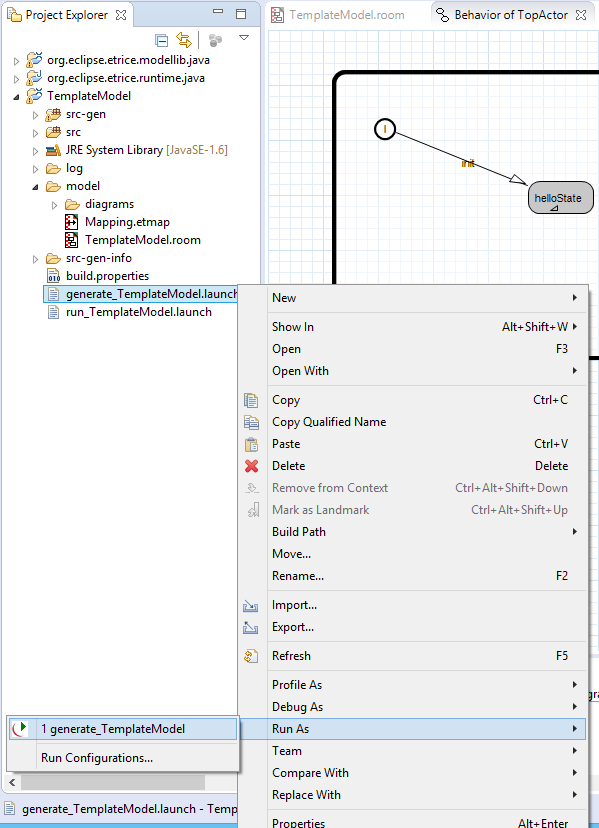
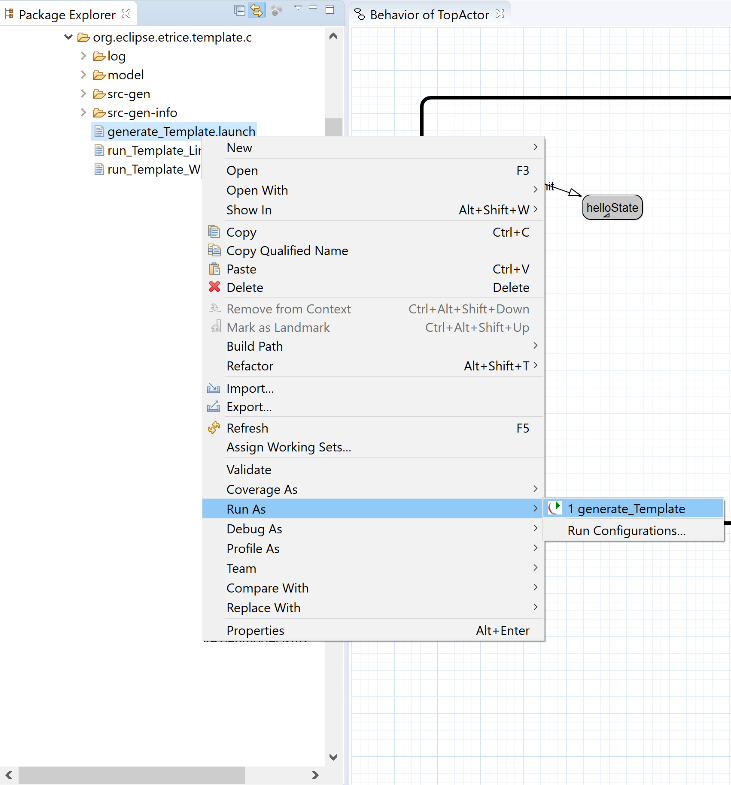
Bug 541517: improved usability of tutorials
- included MinGW install guide
- added brief explanation of actors and link to ROOM concept
- updated some screenshots
- some english language semantics corrected

diff --git a/plugins/org.eclipse.etrice.doc/online-doc/content/tutorials.md b/plugins/org.eclipse.etrice.doc/online-doc/content/tutorials.md
@@ -36,7 +36,7 @@ Additional functionality is provided as model library (Modellib):
 -   standard types
 
 Getting Started C
------------------
+-------------------
 
 In this tutorial you will have a first look at a very simple eTrice model. The goal is to learn the work flow of eTrice and to understand a few basic features of ROOM.
 
@@ -56,6 +56,41 @@ In this tutorial you will have a first look at a very simple eTrice model. The g
 	- [Windows download site](http://trace2uml.tigris.org/servlets/ProjectDocumentList?folderID=6208)
 	- [Linux package](http://apt.astade.de/)
 
+#### How to install the MinGW compiler on Windows 10
+
+1. Download the setup executable "mingw-get-setup" from [here](https://osdn.net/projects/mingw/releases/p15522)
+
+2. Run the executable file and follow the prompts given by the install wizard. 
+
+3. When you are prompted to set the installation directory, try not to install it under "Program Files" or "Desktop". Instead, it is recommended to use the default location specified by the installer, "C:/MinGW".
+
+4. In the basic setup tab, mark all packages for installation by right clicking each package and selecting "Mark for installation".
+
+5. Once all the packages are selected, click on the menu called "Installation -> Apply Changes". 
+
+6. When the confirmation window appears, select "Apply". The package download/installation process will now begin. It should take about 5-10 minutes to completely finish, so ensure that you have a reliable internet connection during this time.
+
+7. Once the installation process has completely finished, you need to set the environment variable path to include the MinGW directory. Open the windows menu with "windows key", type "Control Panel" and press Enter. 
+	- At the top right of the control panel window there should be a search box. Select it and type "Advanced system settings" and then click on the search result "View advanced system settings".
+	
+	- Click on "Environment Variables" and double click on the user variable "Path". In the new Edit environment variable window, enter a new variable under "C:/MinGW/bin" if you used the recommended install path. Otherwise change the install path accordingly. Press OK on all open settings windows to close them.
+
+8. To verify that your installation is working, run the following commands and confirm that the outputs match as follows. It is possible that a restart may necessary to confirm the changes.
+
+```console
+> gcc --version
+g++ (GCC) X.X.X
+......
+ 
+> g++ --version
+g++ (GCC) X.X.X
+......
+ 
+> gdb --version
+GNU gdb (GDB) X.X.X
+......
+```
+
 #### Create template project
 
 After installation of eTrice in Eclipse, we can use the wizard to create the *template.c* project, which is a good starting point for new ROOM applications. Select the menu *File -&gt; New -&gt; Other* (Ctrl+N) and choose *eTrice C Template Project*. To complete the wizard press *Next* and on the next page *Finish*.
@@ -71,7 +106,9 @@ Now open the *TemplateModel.room* in the model folder of *template.c*.
 
 ![image](images/013-after-wizard.png)
 
-The model contains an ActorClass *TopActor*, which is currently the only active actor. TopActor has a state machine that is intended to output a simple HelloWorld statement. To inspect its behavior graphically, we can open the behavior diagram by right click on *Outline View -&gt; TopActor -&gt; Edit Behavior*. Alternatively we can place the cursor within the textual notation and press Alt+B.
+In this step we are introduced to the concept of Actors, a fundamental building block in ROOM, and how they are used in eTrice. In essence, an Actor is a representation of an object as a logical machine with defined behavior. Its structure, behavior and protocols are all defined with in an element called an ActorClass. See [here](room-concepts.html#actors) for further information.
+
+The model contains an ActorClass *TopActor*, which is currently the only active actor. TopActor has a state machine that is intended to output a simple HelloWorld statement. To inspect its behavior graphically, we can open the behavior diagram by right clicking on *Outline View -&gt; TopActor -&gt; Edit Behavior*. Alternatively we can place the cursor within the textual notation and press Alt+B.
 
 ![image](images/013-open-hello-fsm.png)
 
@@ -81,13 +118,13 @@ The state machine has an initial transition that leads to *helloState*. The stat
 
 #### Generate and run application
 
-Now we are ready to translate the model into an executable application. The first step is to generate source files from the model. Therefore we run the eTrice model generator by right click on file
+Now we are ready to translate the model into an executable application. The first step is to generate source files from the model. Therefore we run the eTrice model generator by right clicking on file
 
-<span class="uiElement"><img src="icons/obj16/file_obj.gif"> generate_Template.launch → Run As → generate_TemplateModel.</span>
+<span class="uiElement"><img src="icons/obj16/file_obj.gif"> generate_Template.launch --> Run As --> generate_Template</span>
 
-After that we can build and run the application by right click on file
+After that we can build and run the application by right clicking on file
 
-<span class="uiElement"><img src="icons/obj16/file_obj.gif"> run_Template_Windows.launch → Run As → run_Template_Windows.</span>
+<span class="uiElement"><img src="icons/obj16/file_obj.gif"> run_Template_Windows.launch --> Run As --> run_Template_Windows</span>
 
 This will trigger the build process, carried out by Eclipse CDT and then subsequently start our application.
 
@@ -97,7 +134,7 @@ This will trigger the build process, carried out by Eclipse CDT and then subsequ
 | <center>1. Invoke generator</center> | <center>2. Build and run application</center> |
 
 
-The output of our application is logged in the Console View and it shows the “Hello World”. By typing “quit” on the prompt and pressing enter the application terminates regularly.
+The output of our application is logged in the Console View and it shows the "Hello World". By typing "quit" on the prompt and pressing enter the application terminates regularly.
 
 ![image](images/013-quit-hello-msc.png)
 
@@ -151,6 +188,7 @@ This will add four projects into your workspace:
 Now open the *TemplateModel.room* in the model folder of *template.c*.
 
 ![image](images/013-after-wizard-cpp.png)
+In this step we are introduced to the concept of Actors, a fundamental building block in ROOM, and how they are used in eTrice. In essence, an Actor is a representation of an object as a logical machine with defined behavior. Its structure, behavior and protocols are all defined with in an element called an ActorClass. See [here](room-concepts.html#actors) for further information.
 
 The model contains an ActorClass *TopActor*, which is currently the only active actor.
 TopActor has a state machine that is intended to output a simple HelloWorld statement.
@@ -171,7 +209,7 @@ right click and *Edit State*.
 
 Now we are ready to translate the model into an executable application. The first step is to generate source files from the model. Therefore we run the eTrice model generator by right click on file
 
-<span class="uiElement"><img src="icons/obj16/file_obj.gif"> generate_Template.launch → Run As → generate_TemplateModel.</span>
+<span class="uiElement"><img src="icons/obj16/file_obj.gif"> generate_Template.launch --> Run As --> generate_TemplateModel</span>
 
 After that we can build and run the application by right click on file (depending on your operating system, here we chose Windows).
 
@@ -179,7 +217,7 @@ After that we can build and run the application by right click on file (dependin
 
 <span class="label label-info">Note:</span> Your CDT preferences might not enforce a build before launch. In this case you have to invoke the build before launching.
 
-<span class="uiElement"><img src="icons/obj16/file_obj.gif"> run_Template_Windows.launch → Run As → run_Template_Windows.</span>
+<span class="uiElement"><img src="icons/obj16/file_obj.gif"> run_Template_Windows.launch --> Run As --> run_Template_Windows</span>
 
 This will trigger the build process, carried out by Eclipse CDT and then subsequently start our application.
 
@@ -189,8 +227,8 @@ This will trigger the build process, carried out by Eclipse CDT and then subsequ
 | <center>1. Invoke generator</center>  | <center>2. Build and run application</center>  |
 
 
-The output of our application is logged in the Console View and it shows the “Hello World”.
-By typing “quit” on the prompt and pressing enter the application terminates regularly.
+The output of our application is logged in the Console View and it shows the "Hello World".
+By typing "quit" on the prompt and pressing enter the application terminates regularly.
 
 ![image](images/014-quit-hello-msc-cpp.png)
 
@@ -239,6 +277,7 @@ After installation of eTrice in Eclipse, we can use the wizard to create the tem
 This will add three projects into your workspace, the library projects *runtime.java* and *modellib.java* and our application project *TemplateModel*. Now open the *TemplateModel.room* in the model folder of our project.
 
 ![image](images/014-after-wizard.png)
+In this step we are introduced to the concept of Actors, a fundamental building block in ROOM, and how they are used in eTrice. In essence, an Actor is a representation of an object as a logical machine with defined behavior. Its structure, behavior and protocols are all defined with in an element called an ActorClass. See [here](room-concepts.html#actors) for further information.
 
 The model contains an ActorClass *TopActor*, which is currently the only active actor. TopActor has a state machine that is intended to output a simple HelloWorld statement. To inspect its behavior graphically, we can open the behavior diagram by right click on *Outline View -&gt; TopActor -&gt; Edit Behavior*. Alternatively we can place the cursor within the textual notation and press Alt+B.
 
@@ -252,11 +291,11 @@ The state machine has an initial transition that leads to *helloState*. The stat
 
 Now we are ready to translate the model into an executable application. The first step is to generate source files from the model. Therefore we run the eTrice model generator by right click on file
 
-<span class="uiElement"><img src="icons/obj16/file_obj.gif"> generate_Template.launch → Run As → generate_TemplateModel</span>
+<span class="uiElement"><img src="icons/obj16/file_obj.gif"> generate_Template.launch --> Run As --> generate_Template</span>
 
 After that we can build and run the application by right click on file
 
-<span class="uiElement"><img src="icons/obj16/file_obj.gif"> run_TemplateModel.launch → Run As → run_TemplateModell</span>
+<span class="uiElement"><img src="icons/obj16/file_obj.gif"> run_TemplateModel.launch --> Run As --> run_TemplateModel</span>
 
 This will trigger the build process, carried out by Eclipse JDT and then subsequently start our application.
 
@@ -265,7 +304,7 @@ This will trigger the build process, carried out by Eclipse JDT and then subsequ
 | ![image](images/014-generate.png)    | ![image](images/014-build_run.png)   		   |
 | <center>1. Invoke generator</center> | <center>2. Build and run application</center> |
 
-The output of our application is logged in the Console View and it shows the “Hello World”. By typing “quit” on the prompt and pressing enter the application terminates regularly.
+The output of our application is logged in the Console View and it shows the "Hello World". By typing "quit" on the prompt and pressing enter the application terminates regularly.
 
 ![image](images/014-quit-hello-msc-cpp.png)
 
